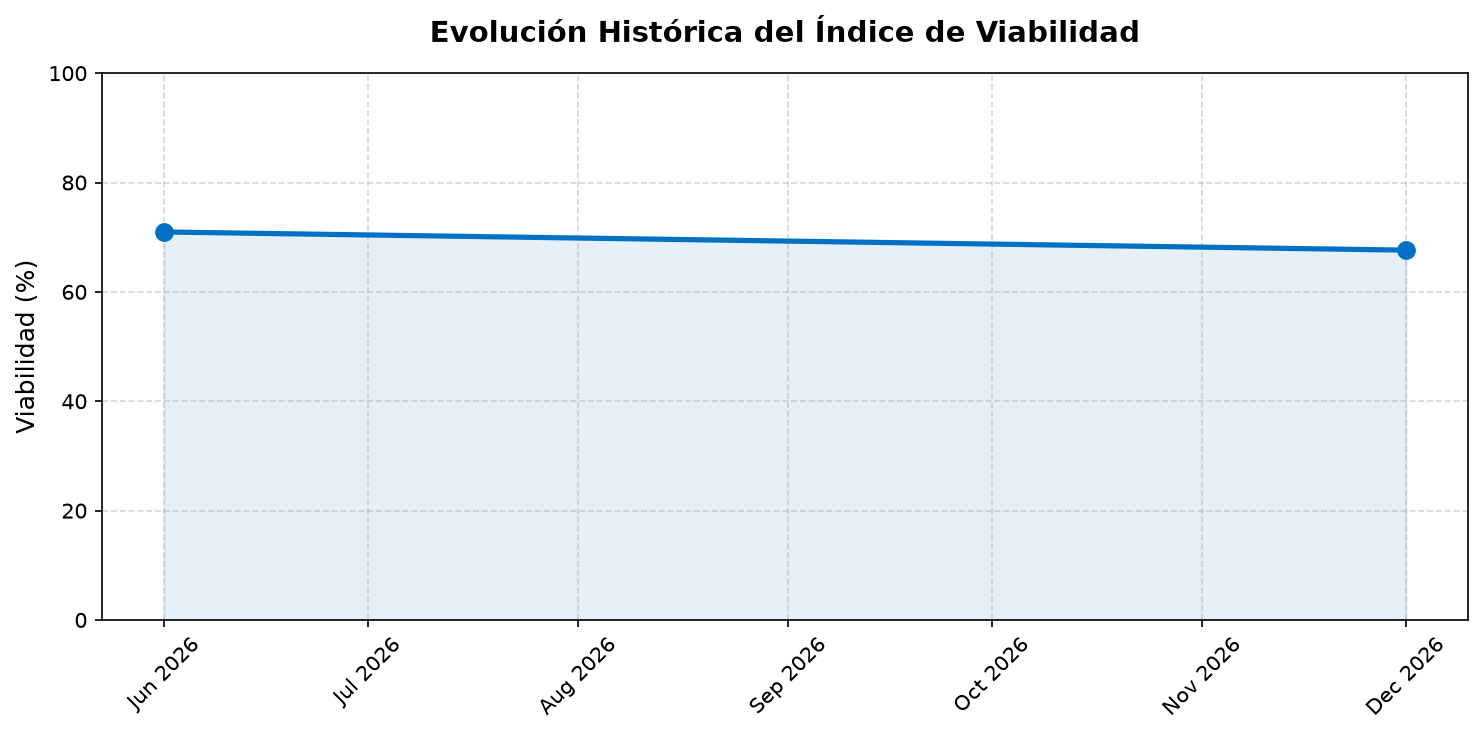
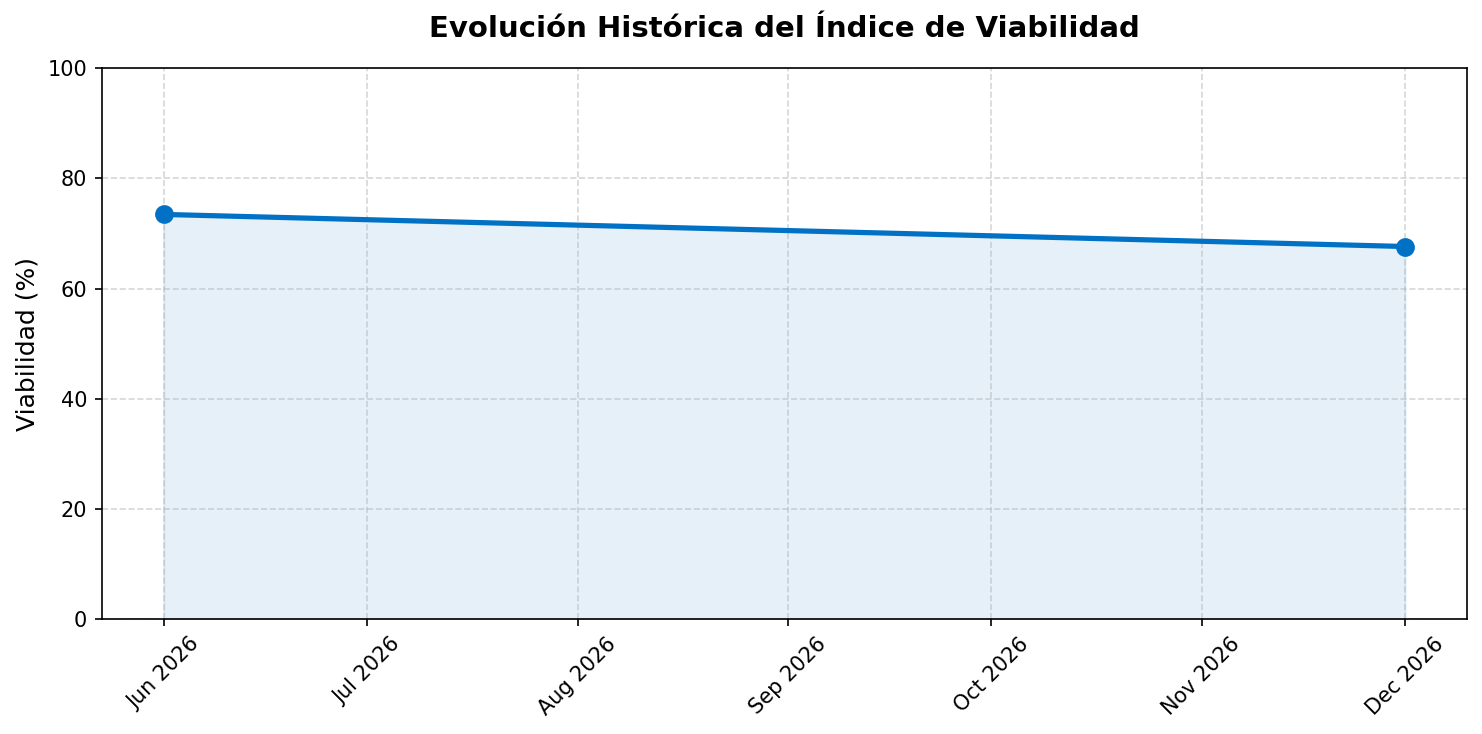
Auto-update: Actualización diaria de predicción y datos macroeconómicos

diff --git a/README.md b/README.md
@@ -21,11 +21,11 @@ En este proyecto, **Augur** funciona como una analogía moderna: en lugar de obs
 ## Estado Actual del Índice
 
 <!-- PREDICTION_START -->
-**Índice de Viabilidad de Reelección:** 71.0%
+**Índice de Viabilidad de Reelección:** 73.5%
 
 **Análisis:** Viabilidad Alta. El entorno macroeconómico actual es altamente favorable. La combinación de baja inflación y brecha con buena aprobación empujan el índice al alza.
 
-*(Última actualización: 2026-06-21 16:40)*
+*(Última actualización: 2026-06-22 13:39)*
 <!-- PREDICTION_END -->
 
 <p align="center">